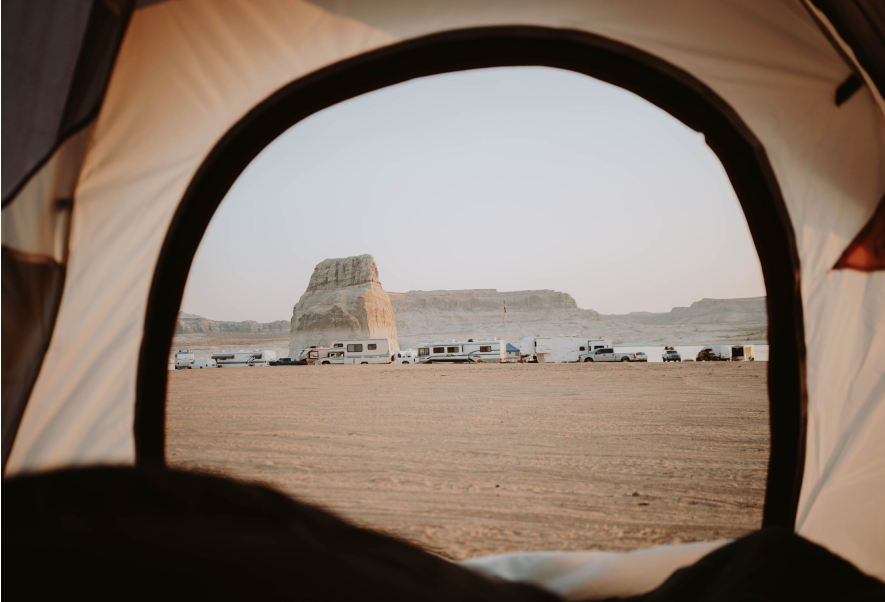
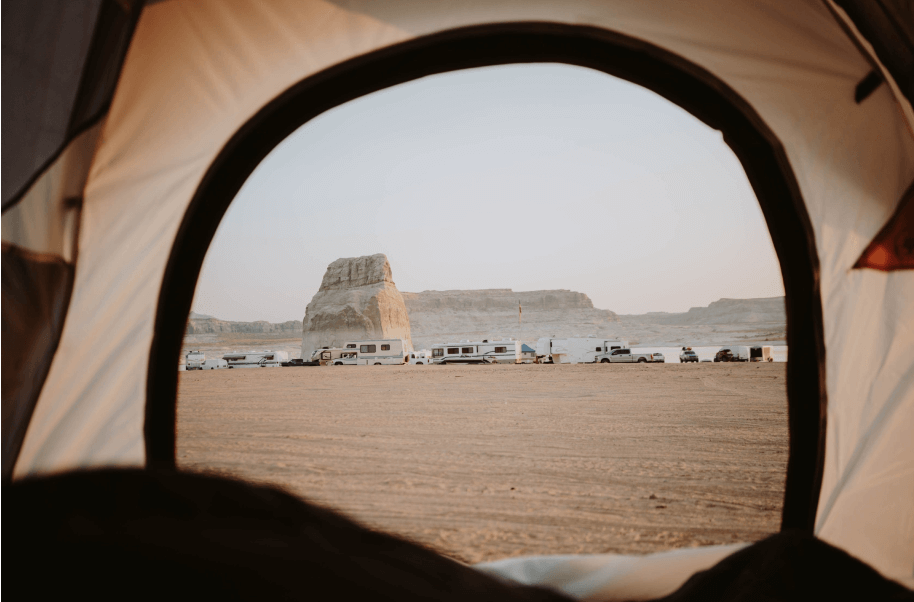
Внесены правки: изменена маска ввода в форме, изменен межсимвольный интервал, отцентрирована стрелка. Заменены все изображения, размер уменьшился в 3 раза, и прочие мелкие замечания

diff --git a/app/assets/js/script.js b/app/assets/js/script.js
@@ -1,14 +1,14 @@
 $(function(){
    //2. Получить элемент, к которому необходимо добавить маску
-   $("#tel").mask("+7(999)999-99-99");
+   $("#tel").mask("+7(9?99)999-99-99");
  });
 
 
 
 	$(function() {
 
-		$("#from").mask("99.99.9999");
-		$("#to").mask("99.99.9999");
+		$("#from").mask("9?9.99.9999");
+		$("#to").mask("9?9.99.9999");
 
 	});
 	var droplist = document.getElementById("direction");

diff --git a/index.html b/index.html
@@ -133,7 +133,7 @@
             </label>
 
             <label>Телефон<br>
-              <input type="tel" name='tel' id="tel" placeholder='+7(___)___-__-__' style="letter-spacing:0.15em;">
+              <input type="tel" name='tel' id="tel" placeholder='+7(___)___-__-__' style="letter-spacing:0.3em;">
             </label>
           </div>
           <div class="tour-constructor__group">

diff --git a/app/assets/css/style.css b/app/assets/css/style.css
@@ -761,7 +761,7 @@ button {
   content: url(../img/dropdown.svg);
   pointer-events: none;
   position: absolute;
-  top: 21px;
+  top: 22px;
   right: 23px;
   z-index: 1;
 }
@@ -1125,6 +1125,11 @@ nav .phone {
   color: #1B1F2B;
   color: white;
   outline: none;
+  border-bottom: 1px solid transparent;
+}
+nav .phone:hover {
+  border-color: white;
+  cursor: pointer;
 }
 
 .slogan {

diff --git a/app/style/style.scss b/app/style/style.scss
@@ -64,7 +64,12 @@ nav {
    .phone{
       @include p-normal;
       color: white;
-   outline: none;}
+   outline: none;
+   border-bottom: 1px solid transparent;
+   &:hover{
+      border-color: white;
+         cursor: pointer;
+   }}
 }
 
 .slogan {

diff --git a/app/style/form.scss b/app/style/form.scss
@@ -47,7 +47,7 @@
       content: url(../img/dropdown.svg);
       pointer-events: none;
       position: absolute;
-      top: 21px;
+      top: 22px;
       right: 23px;
       z-index: 1;
   }

diff --git a/app/assets/css/colors.css b/app/assets/css/colors.css
@@ -1,0 +1,1 @@
+/* No CSS *//*# sourceMappingURL=colors.css.map */
